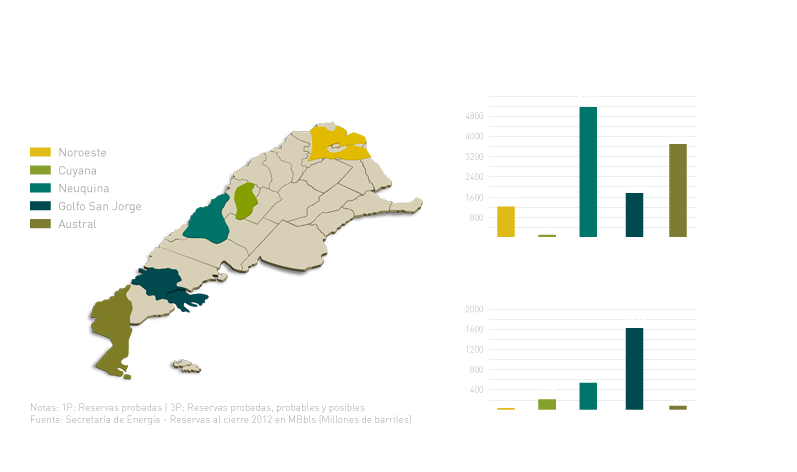
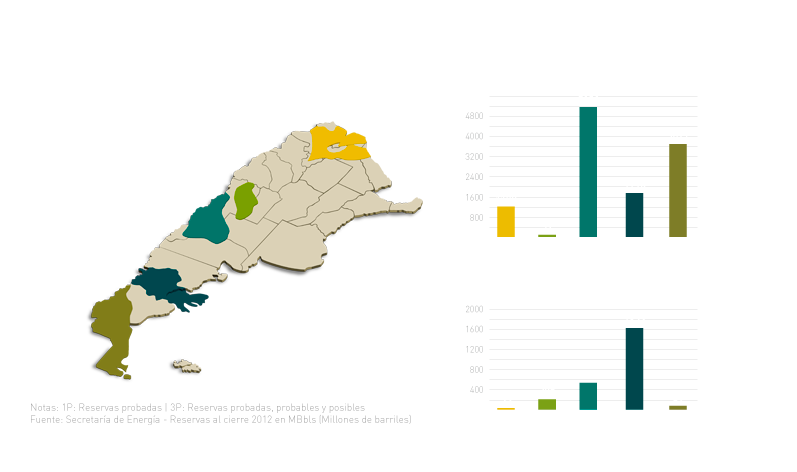
cambio de referencias a html

Changed region(s): [[0.0301, 0.2966, 0.1807, 0.5042]]

diff --git a/css/desafio-energetico-internas.css b/css/desafio-energetico-internas.css
@@ -85,6 +85,42 @@
 		margin-bottom: 10px;
 	}
 
+	.internas .energia-para-el-crecimiento .row .grafico-1 .referencias{
+		margin-top: 23px;
+		margin-left: 10px;
+	}
+
+	.internas .energia-para-el-crecimiento .row .grafico-1 .referencias li{
+		line-height: 18px;
+	}
+
+	.internas .energia-para-el-crecimiento .row .grafico-1 .referencias li span{
+		display: inline-block;
+		width: 20px;
+		height: 10px;
+		margin-right: 5px;
+	}
+
+		.internas .energia-para-el-crecimiento .row .grafico-1 .referencias li.noroeste span{
+			background-color: #e0bb18;
+		}
+
+		.internas .energia-para-el-crecimiento .row .grafico-1 .referencias li.cuyana span{
+			background-color: #86a02d;
+		}
+
+		.internas .energia-para-el-crecimiento .row .grafico-1 .referencias li.neuquina span{
+			background-color: #00756a;
+		}
+
+		.internas .energia-para-el-crecimiento .row .grafico-1 .referencias li.golfo-san-jorge span{
+			background-color: #00494e;
+		}
+
+		.internas .energia-para-el-crecimiento .row .grafico-1 .referencias li.austral span{
+			background-color: #7d7c32;
+		}
+
 	.internas .energia-para-el-crecimiento .row .grafico-1 img{
 		position: absolute;
 		top: 0;

diff --git a/energia-para-el-crecimiento.html b/energia-para-el-crecimiento.html
@@ -359,7 +359,16 @@
 							<div class="contenedor">
 								<h3>Nuestro país cuenta con la base de recursos de petróleo y gas para revertir la importación</h3>
 
-								<p>Argentina se encuentra en una inmejorable posición para aprovechar esta oportunidad por abundancia de recursos, conocimiento, infraestructuray oportunidad de mercado.</p>
+								<p>Argentina se encuentra en una inmejorable posición para aprovechar esta oportunidad por abundancia de recursos, conocimiento, infraestructura y oportunidad de mercado.</p>
+
+								<ul class="referencias">
+									<li class="noroeste"><span></span> Noroeste</li>
+									<li class="cuyana"><span></span> Cuyana</li>
+									<li class="neuquina"><span></span> Neuquina</li>
+									<li class="golfo-san-jorge"><span></span> Golfo San Jorge</li>
+									<li class="austral"><span></span> Austral</li>
+								</ul>
+
 							</div>
 
 							<img src="./img/desafio-energetico/desafio-energetico-detalle/Cuencas_argentina_petroleo_gas-01.png" />
